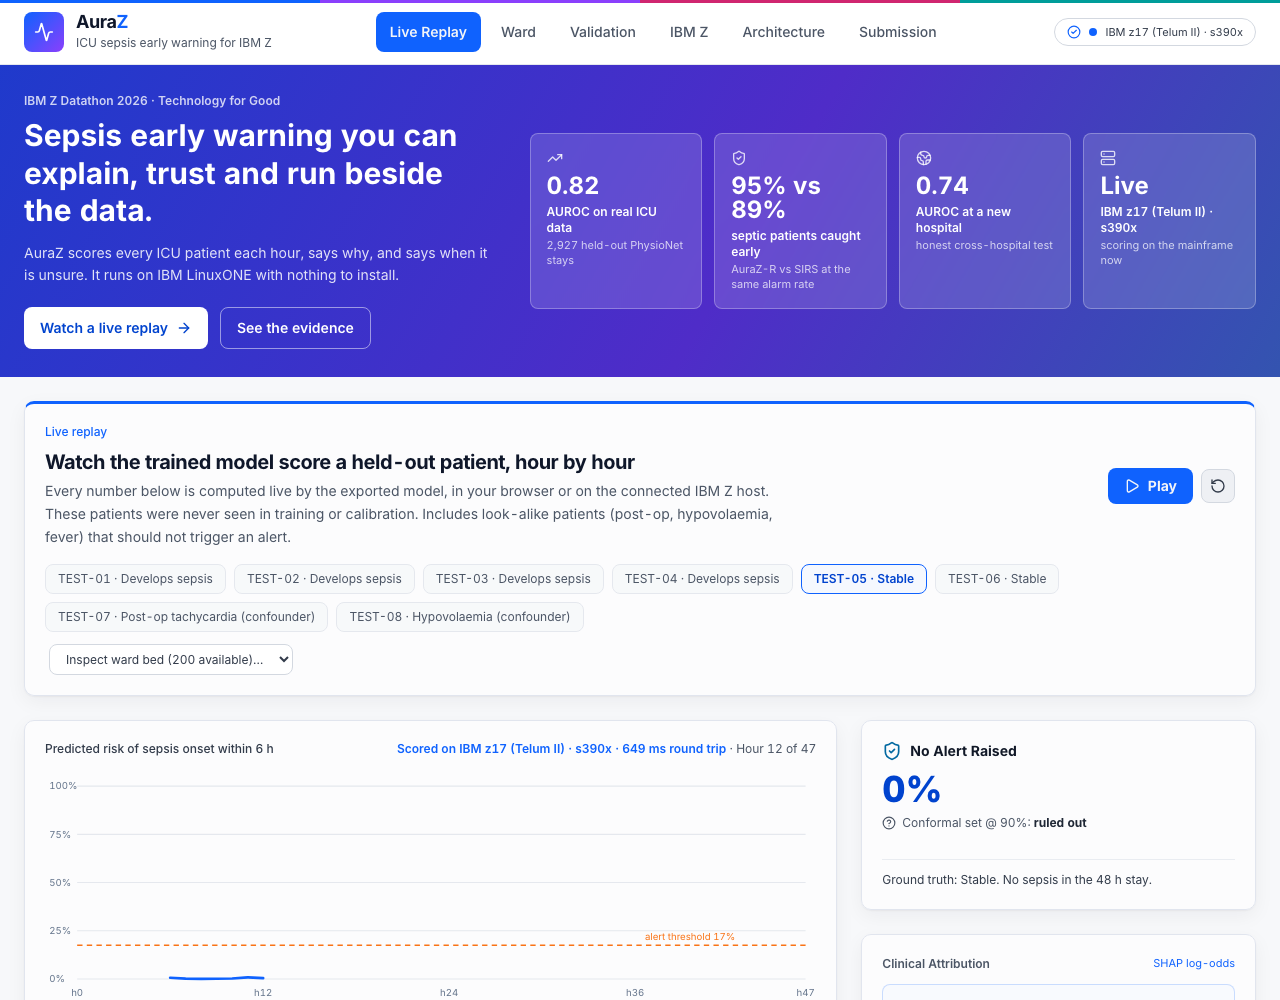
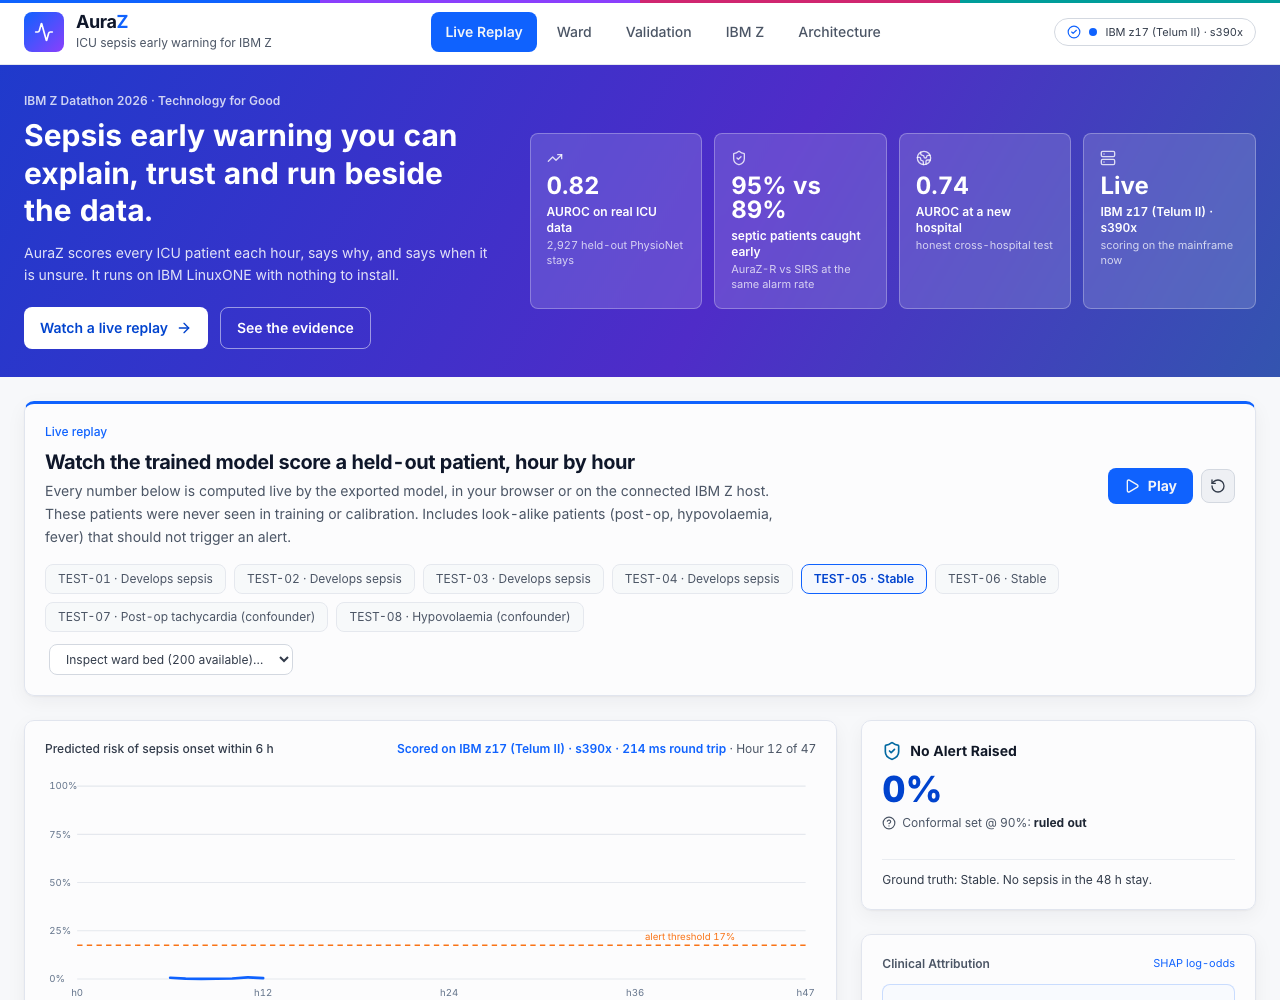
Remove Submission tab; auto-connect to localhost:8080 by default

Changed region(s): [[0.2812, 0.0, 0.5312, 0.062], [0.5625, 0.031, 0.7188, 0.062]]

diff --git a/src/App.tsx b/src/App.tsx
@@ -3,7 +3,6 @@ import { Header, Tab } from './components/Header';
 import { Hero } from './components/Hero';
 import { BenchmarkLab } from './components/BenchmarkLab';
 import { ArchitectureExplorer } from './components/ArchitectureExplorer';
-import { SubmissionHub } from './components/SubmissionHub';
 import { ReplayLab } from './components/ReplayLab';
 import { ValidationPanel } from './components/ValidationPanel';
 import { WardView } from './components/WardView';
@@ -20,6 +19,7 @@ const Loading = () => (
 );
 
 const KEY = 'auraz.endpoint';
+const DEFAULT_ENDPOINT = 'http://localhost:8080';
 
 export const App: React.FC = () => {
   const art = useArtifacts();
@@ -27,9 +27,9 @@ export const App: React.FC = () => {
   const [replayTarget, setReplayTarget] = useState<{ patient: ReplayPatient; hour: number } | null>(null);
   const [endpoint, setEndpoint] = useState<string>(() => {
     try {
-      return localStorage.getItem(KEY) ?? '';
+      return localStorage.getItem(KEY) || DEFAULT_ENDPOINT; // auto-connect: try the local inference service / SSH tunnel first
     } catch {
-      return '';
+      return DEFAULT_ENDPOINT;
     }
   });
   const [info, setInfo] = useState<Health | null>(null);
@@ -96,9 +96,6 @@ export const App: React.FC = () => {
                 onSelectPatient={handleSelectBed}
               />
             ) : <Loading />
-          )}
-          {tab === 'submission' && (
-            art ? <SubmissionHub m={art.metrics} /> : <Loading />
           )}
         </section>
       </main>

diff --git a/src/components/Header.tsx b/src/components/Header.tsx
@@ -1,7 +1,7 @@
 import React, { useRef } from 'react';
 import { Activity, CheckCircle2, Server } from 'lucide-react';
 
-export type Tab = 'replay' | 'ward' | 'validation' | 'ibmz' | 'architecture' | 'submission';
+export type Tab = 'replay' | 'ward' | 'validation' | 'ibmz' | 'architecture';
 
 const TABS: [Tab, string][] = [
   ['replay', 'Live Replay'],
@@ -9,7 +9,6 @@ const TABS: [Tab, string][] = [
   ['validation', 'Validation'],
   ['ibmz', 'IBM Z'],
   ['architecture', 'Architecture'],
-  ['submission', 'Submission'],
 ];
 
 interface Props {

diff --git a/README.md b/README.md
@@ -47,7 +47,7 @@ python3 ml/serve.py 8080
 
 If port 8080 is not reachable, tunnel it: `ssh -N -L 8080:localhost:8080 -i key.pem linux1@<VM-IP>`. Then open the **IBM Z** tab, enter `http://localhost:8080` (or the VM address), and press Connect. Live Replay and Ward now score on the mainframe.
 
-Tabs: **Live Replay** · **Ward** (200 beds) · **Validation** · **IBM Z** · Architecture · Submission.
+Tabs: **Live Replay** · **Ward** (200 beds) · **Validation** · **IBM Z** · Architecture.
 
 ## Verified on IBM LinuxONE
 
